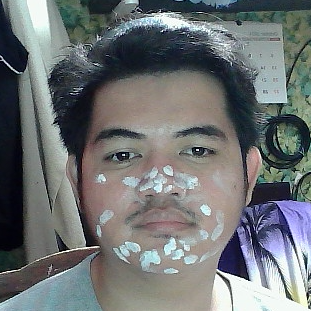
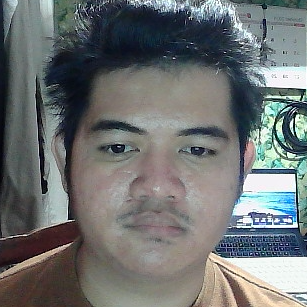
fix multiple face recognitoin update the bounding boxes

diff --git a/templates/face_recogition.html b/templates/face_recogition.html
@@ -209,7 +209,7 @@
         globalFailedRecognition = 0;
         globalNoFaceIsDetected = 0;
 
-        setTimeout(redirectToHome, 6000);
+        // setTimeout(redirectToHome, 6000);
     }
 
     function showNoMatchDetected(data) {
@@ -236,23 +236,28 @@
         const cameraStatus = getCleanCameraStatus(data.camera_status);
         const nameResult = getCleanCameraStatus(data.name);
 
-        if (data.camera_status === 'Access Granted') {
-            showAccessGranted(data);
-        } else if (nameResult === "nomatchdetected") {
-            showNoMatchDetected(data);
-            console.log("No match is detected");
+        switch(cameraStatus){
 
-        } else if (cameraStatus === "nofaceisdetected") {
-            showNoFaceDetected();
-            console.log("No face is detected");
+            case 'accessgranted':
+                showAccessGranted(data);
+            break;
+
+            case 'accessdenied':
+                showNoMatchDetected(data);
+            break;
+
+            case 'nofaceisdetected':
+                showNoFaceDetected(data);
+            break;
         }
 
+        /*
         setInterval(function (){
             if (globalNoFaceIsDetected >= 6 || globalFailedRecognition >= 10 ) {
                 redirectToHome();
             }    
         },3000)
-
+        */
     }
     
     async function getFacialRecognition() {

diff --git a/App.py b/App.py
@@ -17,7 +17,7 @@ app = Flask(__name__)
  
 API_ENDPOINT_TIME_IN = "http://192.168.0.101:1000"
 RECOGNITION_THRESHOLD = 0.55
-BLURRINESS_VALUE = 1000
+BLURRINESS_VALUE = 0
  
 CORS(app, resources={r"/*": {"origins": ["http://127.0.0.1:1000", API_ENDPOINT_TIME_IN]}})
 
@@ -162,7 +162,7 @@ def CHECK():
 def video_feed():
 
     app.config["FACE_RESULT"] = "",""
-    app.config["CAMERA_STATUS"] = "camera is loading",True
+    app.config["CAMERA_STATUS"] = "",True
     app.config["BGR"] = 0,255,255
 
     # load a camera and face detection
@@ -188,6 +188,77 @@ def face_crop(frame,face_height,face_width,x,y):
     except:
         pass
     return None
+
+def draw_custom_face_box(frame, x, y_face, w, h, line_y = None, box_color = (255, 255, 255), scan = False, scanColor=(255, 215, 0)):
+    """Draws a face box with blue corners and a moving horizontal line."""
+
+    line_thickness = 2
+    corner_length = 30  # Length of the corner lines
+     # Light blue corner color
+
+    # Top-left corner
+    cv2.line(frame, (x, y_face), (x + corner_length, y_face), box_color, line_thickness)
+    cv2.line(frame, (x, y_face), (x, y_face + corner_length), box_color, line_thickness)
+
+    # Top-right corner
+    cv2.line(frame, (x + w, y_face), (x + w - corner_length, y_face), box_color, line_thickness)
+    cv2.line(frame, (x + w, y_face), (x + w, y_face + corner_length), box_color, line_thickness)
+
+    # Bottom-left corner
+    cv2.line(frame, (x, y_face + h), (x + corner_length, y_face + h), box_color, line_thickness)
+    cv2.line(frame, (x, y_face + h), (x, y_face + h - corner_length), box_color, line_thickness)
+
+    # Bottom-right corner
+    cv2.line(frame, (x + w, y_face + h), (x + w - corner_length, y_face + h), box_color, line_thickness)
+    cv2.line(frame, (x + w, y_face + h), (x + w, y_face + h - corner_length), box_color, line_thickness)
+
+    if scan:
+        cv2.line(frame, (x, line_y), (x + w, line_y), scanColor, 2)  # Yellow moving line
+
+def recognize_multiple_faces(frame,face_detected,is_blurred):
+    
+    camera_status = "Access Denied", False
+    
+    # Get current date and time
+    current_datetime = datetime.now()
+
+    # Format date as "Month Day Year" (e.g., "April 03 2024")
+    formatted_date = current_datetime.strftime("%B %d %Y")
+
+    # Format time as "Hour:Minute AM/PM" (e.g., "1:52 PM")
+    formatted_time = current_datetime.strftime("%I:%M %p")
+    
+    Name,percent = "| ",""
+    for id,(x, y, w, h) in enumerate(face_detected,0):
+        
+        faceCrop = frame[y:y+h, x:x+w]
+        face_gray = cv2.cvtColor(faceCrop, cv2.COLOR_BGR2GRAY)
+        
+        is_blurred = detect_blur_in_face(face_gray,f"person_{id}",BLURRINESS_VALUE)
+        faceCrop = face_crop(frame=frame,face_height=h,face_width=w,x=x,y=y)
+        
+        if is_blurred and faceCrop is not None:
+            result = JL().Face_Compare(face=faceCrop,threshold=RECOGNITION_THRESHOLD)
+
+            name_result = result[0]
+
+            Name += name_result + " | " if name_result != "No match detected" else ""
+            percent = result[1]
+            
+            app.config["BGR"] = (0,0,255) if name_result == "No match detected" else (0,255,0)
+   
+            if name_result != "No match detected":
+                camera_status = ("Access Granted",False)
+                Fbase().firebaseUpdate(
+                    keyName=formatted_date,
+                    name=result[0],
+                    data="Time In",
+                    time=formatted_time,
+                    Temp=str(app.config["target_temp"])
+                )
+    facial_status = (Name,percent)
+    return (facial_status,camera_status) 
+ 
 
 
 def facialRecognition(frame):
@@ -279,36 +350,35 @@ def Facial_Detection(camera=None, face_detector=None):
                 start_time = time.time()
             
             B,G,R = app.config["BGR"]          
-            Name,percent = app.config["FACE_RESULT"]
             
             if is_blurred:
-                cv2.rectangle(frame, (x, y), (x+w, y+h), (B,G,R), 2)
-                cv2.putText(frame,Name + " " + str(percent),(x -60,y+h+30),cv2.FONT_HERSHEY_COMPLEX,1,(B,G,R),1)
-            
+                draw_custom_face_box(frame, x, y, w, h,box_color=(B,G,R))
    
         elif len(faces) > 1:
             
             for i,(x, y, w, h) in enumerate(faces,0):
                 
-                app.config["CAMERA_STATUS"] = "Multiple person is detected",True
-                
                 try:
                     faceCrop = frame[y:y+h, x:x+w]
                     face_gray = cv2.cvtColor(faceCrop, cv2.COLOR_BGR2GRAY)
 
+                    is_blurred = detect_blur_in_face(face_gray,f"person_{i}",1500)
+        
+                    if timer >= 3:
+                        
+                        if is_blurred and faceCrop is not None:
+                            face_result,camera_status = recognize_multiple_faces(frame,faces,is_blurred)
+     
+                    if is_blurred:
+                        B,G,R = app.config["BGR"] 
+                        draw_custom_face_box(frame, x, y, w, h,box_color=(B,G,R))
+                        
+                        app.config["FACE_RESULT"] = face_result
+                        app.config["CAMERA_STATUS"] = camera_status
 
-                    is_blurred = detect_blur_in_face(face_gray,f"person_{i}",BLURRINESS_VALUE)
-                    faceCrop = face_crop(frame=frame,face_height=h,face_width=w,x=x,y=y)
-                    
-                    if is_blurred and faceCrop is not None:
-                        facialRecognition(frame=faceCrop)
                 
-                        B,G,R = app.config["BGR"]          
-                        Name,percent = app.config["FACE_RESULT"]
-            
-                        cv2.rectangle(frame, (x, y), (x+w, y+h), (B,G,R), 2)
-                        cv2.putText(frame,f"person_{i}: " + Name + " " + str(percent),(x -60,y+h+30),cv2.FONT_HERSHEY_COMPLEX,1,(B,G,R),1)
-                except:
+                except Exception as e:
+                    print(e)
                     pass   
                     
         else:
